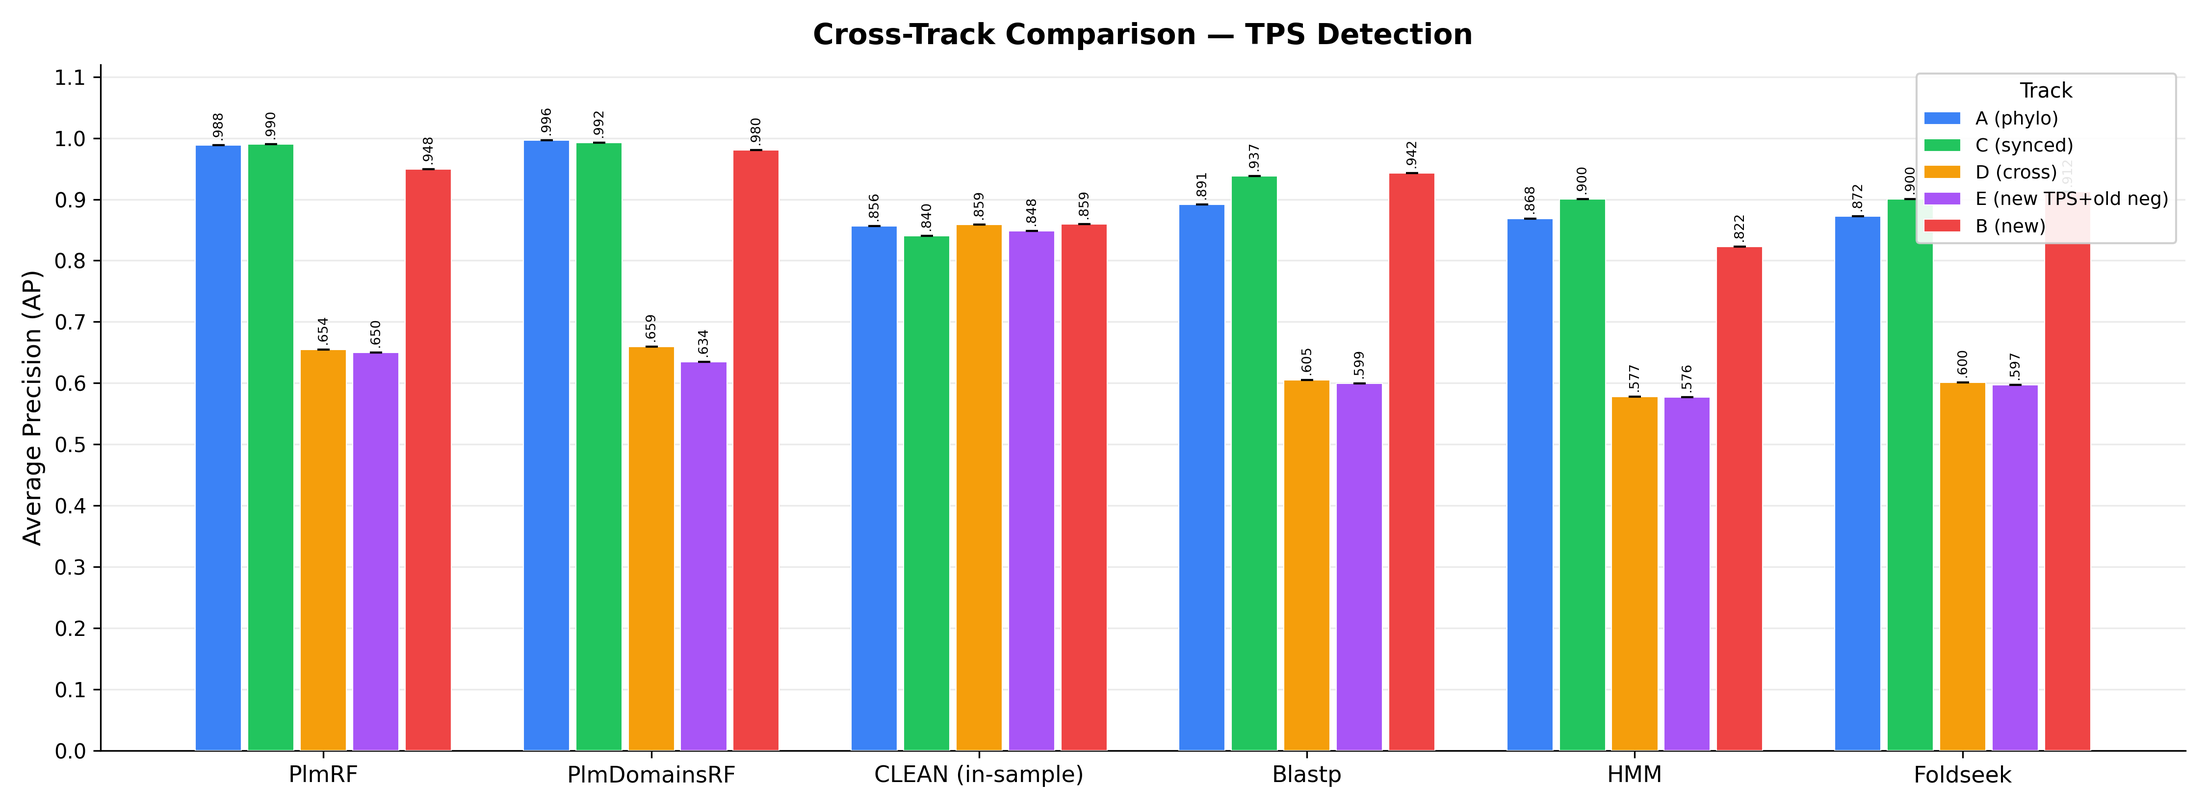
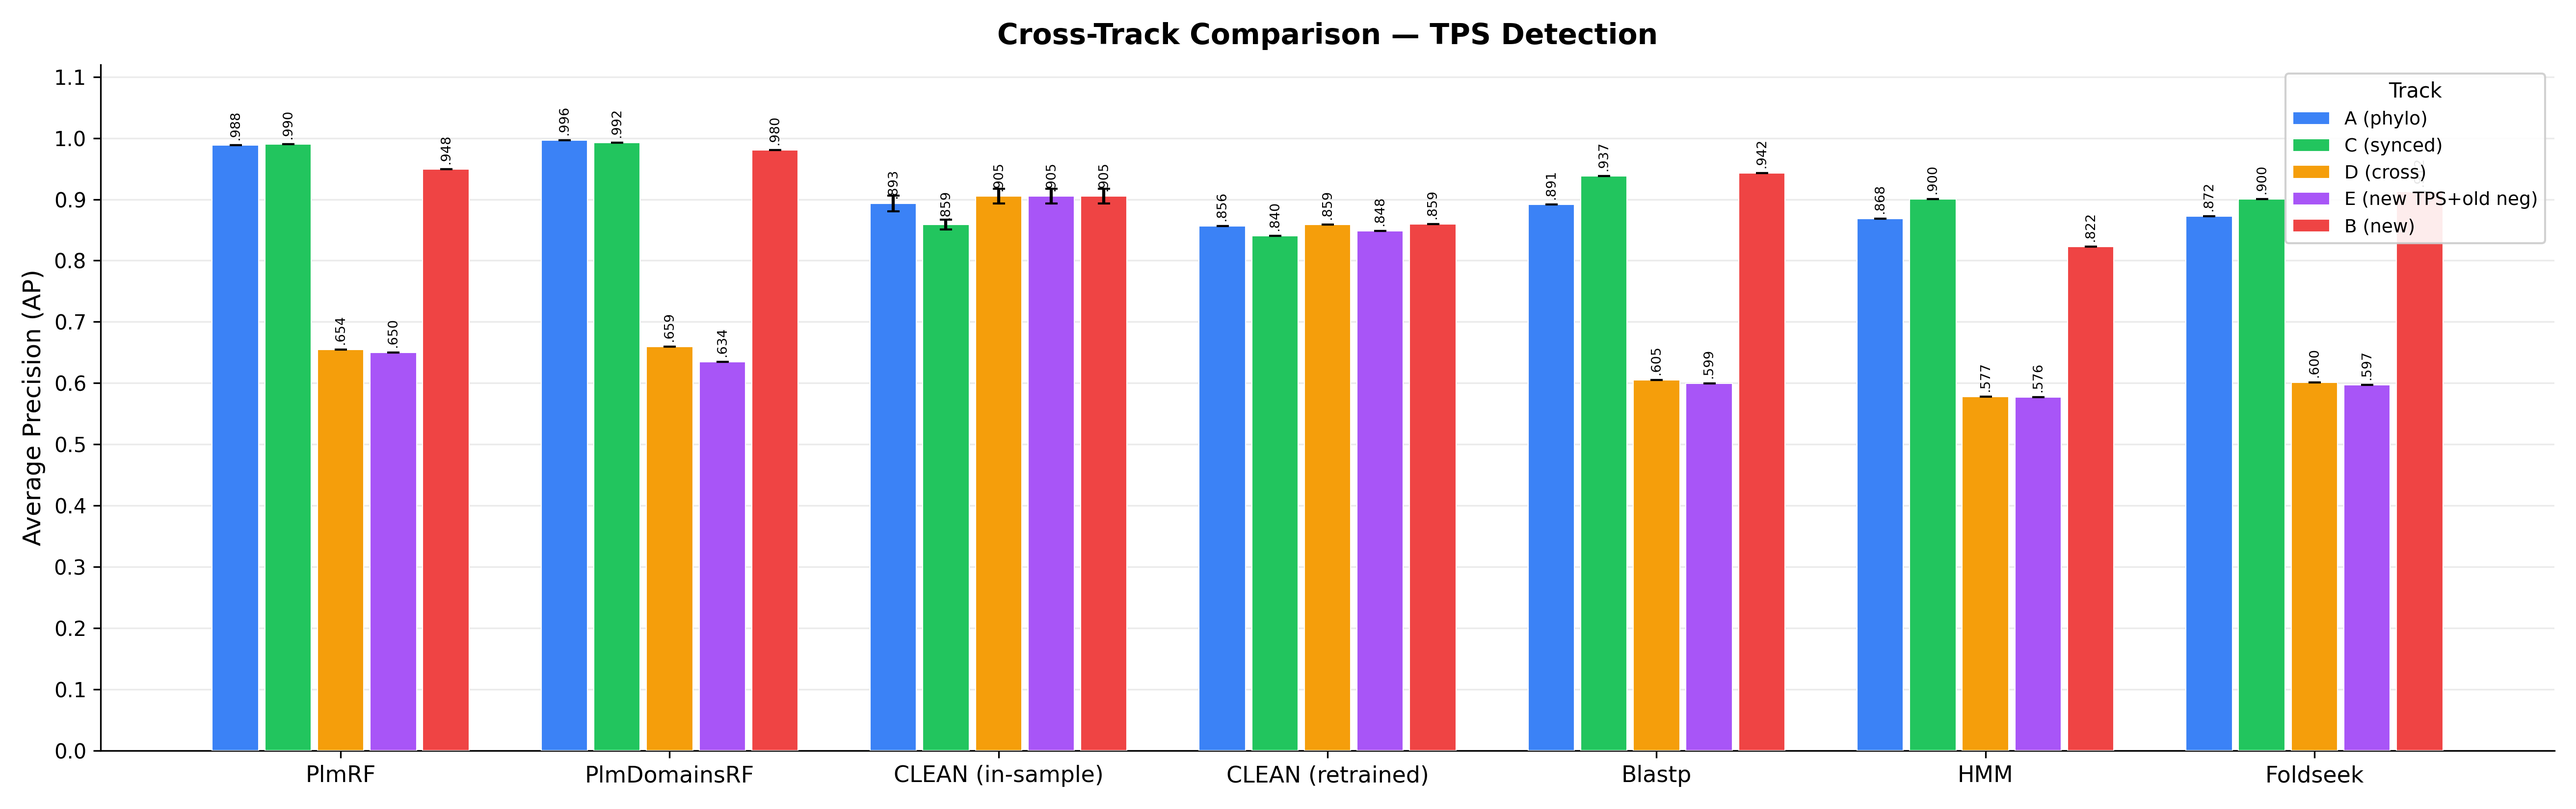
fix: prevent substrate-bearing negatives from getting isTPS=True
Proteins with Type=Unknown that happen to carry real terpenoid substrate
annotations (e.g. prenyltransferases misannotated as Unknown) were
incorrectly labelled isTPS=True by assign_is_tps_label, artificially
deflating TPS detection AP by ~40% on tracks B/D/E.

The fix adds _remap_substrates_by_type() which overrides the substrate
column to "Unknown" for any protein with Type=Unknown *before* the
groupby+assign_is_tps_label step, mirroring the existing precursor-type
remap. Both call sites (data_df and eval_data_df) now use the shared
helper.

Also includes:
- patch_istps_labels.py: one-off script that corrected existing fold
  result pickles (95 files across tracks B/D/E)
- Regression tests for the remap and end-to-end isTPS assignment
- Regenerated all figures referenced by local_validation_protocol.md

Made-with: Cursor

diff --git a/scripts/patch_istps_labels.py b/scripts/patch_istps_labels.py
@@ -1,0 +1,208 @@
+#!/usr/bin/env python3
+"""Patch fold_results pickles: fix isTPS labels for substrate-bearing negatives.
+
+Substrate-bearing negatives (Type=Unknown proteins with real terpenoid
+substrates) were incorrectly labelled isTPS=True.  This script corrects
+the test_df label sets inside every fold-result pickle without
+retraining or re-predicting.
+
+Usage::
+
+    python scripts/patch_istps_labels.py          # dry-run (default)
+    python scripts/patch_istps_labels.py --apply   # apply changes in-place
+"""
+
+from __future__ import annotations
+
+import argparse
+import logging
+import pickle
+import shutil
+from collections import defaultdict
+from pathlib import Path
+
+import pandas as pd
+
+logging.basicConfig(level=logging.INFO, format="%(levelname)s: %(message)s")
+logger = logging.getLogger(__name__)
+
+OUTPUT_ROOT = Path("outputs")
+
+_NON_TPS_LABELS = frozenset({"Unknown", "precursor substr"})
+
+_TRACK_TO_MODELS: dict[str, dict[str, str]] = {
+    "A (phylo)": {
+        "Blastp": "with_minor_reactions_phylo_folds",
+        "CLEANEcDetection": "with_minor_reactions_phylo_folds",
+        "Foldseek": "with_minor_reactions_phylo_folds",
+        "HMM": "with_minor_reactions_phylo_folds",
+        "PlmRandomForest": "tps_esm-1v-subseq_with_minor_reactions_phylo_folds",
+        "PlmDomainsRandomForest": "tps_esm-1v-subseq_with_minor_reactions_global_tuning_domains_subset_phylo_folds",
+    },
+    "C (synced)": {
+        "Blastp": "synced_folds",
+        "CLEANEcDetection": "synced_folds",
+        "Foldseek": "synced_folds",
+        "HMM": "synced_folds",
+        "PlmRandomForest": "tps_esm-1v-subseq_synced_folds",
+        "PlmDomainsRandomForest": "tps_esm-1v-subseq_synced_folds",
+    },
+    "B (new)": {
+        "Blastp": "new_dataset",
+        "CLEANEcDetection": "new_dataset",
+        "CLEAN": "new_dataset",
+        "Foldseek": "new_dataset",
+        "HMM": "new_dataset",
+        "PlmRandomForest": "tps_esm-1v-subseq_new_dataset",
+        "PlmDomainsRandomForest": "tps_esm-1v-subseq_new_dataset",
+    },
+    "D (cross)": {
+        "Blastp": "cross_synced_to_new",
+        "CLEANEcDetection": "cross_synced_to_new",
+        "Foldseek": "cross_synced_to_new",
+        "HMM": "cross_synced_to_new",
+        "PlmRandomForest": "tps_esm-1v-subseq_cross_synced_to_new",
+        "PlmDomainsRandomForest": "tps_esm-1v-subseq_cross_synced_to_new",
+    },
+    "E (new TPS+old neg)": {
+        "Blastp": "cross_new_tps_old_neg",
+        "CLEANEcDetection": "cross_new_tps_old_neg",
+        "Foldseek": "cross_new_tps_old_neg",
+        "HMM": "cross_new_tps_old_neg",
+        "PlmRandomForest": "tps_esm-1v-subseq_cross_new_tps_old_neg",
+        "PlmDomainsRandomForest": "tps_esm-1v-subseq_cross_new_tps_old_neg",
+    },
+}
+
+_TRACK_TO_EVAL_CSV: dict[str, str] = {
+    "A (phylo)": "data/TPS-Nov19_2023_verified_all_reactions_with_neg_with_folds.csv",
+    "C (synced)": "data/TPS-Nov19_2023_with_synced_folds.csv",
+    "B (new)": "data/EnzymeExplorer_Dataset.csv",
+    "D (cross)": "data/EnzymeExplorer_Dataset.csv",
+    "E (new TPS+old neg)": "data/EnzymeExplorer_Dataset.csv",
+}
+
+_TRACK_TO_TYPE_COL: dict[str, str] = {
+    "A (phylo)": "Type (mono, sesq, di, \u2026)",
+    "C (synced)": "Type (mono, sesq, di, \u2026)",
+    "B (new)": "Type",
+    "D (cross)": "Type",
+    "E (new TPS+old neg)": "Type",
+}
+
+N_FOLDS = 5
+TARGET_COL = "SMILES_substrate_canonical_no_stereo"
+
+
+def _load_fold_pkl_path(model_type: str, version: str, fold_i: int) -> Path | None:
+    base = OUTPUT_ROOT / model_type / version
+    candidate = base / "all_folds" / "all_classes"
+    if candidate.exists():
+        ts_dirs = sorted(candidate.iterdir(), reverse=True)
+        for ts_dir in ts_dirs:
+            if (ts_dir / "fold_0_results.pkl").exists():
+                base = ts_dir
+                break
+    pkl = base / f"fold_{fold_i}_results.pkl"
+    return pkl if pkl.exists() else None
+
+
+def _get_unknown_ids(csv_path: str, type_col: str) -> frozenset[str]:
+    """Return protein IDs with Type=Unknown from a dataset CSV."""
+    df = pd.read_csv(csv_path)
+    if type_col not in df.columns:
+        return frozenset()
+    id_col = "ID" if "ID" in df.columns else "Uniprot ID"
+    return frozenset(df.loc[df[type_col] == "Unknown", id_col].unique())
+
+
+def _fix_labels(label_set: set[str]) -> set[str]:
+    """Replace the label set for a substrate-bearing negative with {"Unknown"}."""
+    return {"Unknown"}
+
+
+def patch_all(*, apply: bool = False) -> dict[str, int]:
+    stats: dict[str, int] = defaultdict(int)
+
+    unknown_ids_cache: dict[str, frozenset[str]] = {}
+
+    for track_label, models in _TRACK_TO_MODELS.items():
+        csv_path = _TRACK_TO_EVAL_CSV.get(track_label, "")
+        type_col = _TRACK_TO_TYPE_COL.get(track_label, "Type")
+        if not csv_path or not Path(csv_path).exists():
+            logger.warning("Eval CSV not found for track %s: %s", track_label, csv_path)
+            continue
+
+        cache_key = f"{csv_path}|{type_col}"
+        if cache_key not in unknown_ids_cache:
+            unknown_ids_cache[cache_key] = _get_unknown_ids(csv_path, type_col)
+        unknown_ids = unknown_ids_cache[cache_key]
+
+        if not unknown_ids:
+            logger.info("Track %s: no Unknown-type proteins found, skipping", track_label)
+            continue
+
+        for model_type, version in models.items():
+            for fold_i in range(N_FOLDS):
+                pkl_path = _load_fold_pkl_path(model_type, version, fold_i)
+                if pkl_path is None:
+                    continue
+
+                with open(pkl_path, "rb") as f:
+                    val_proba, class_names, test_df = pickle.load(f)
+
+                id_col = "ID" if "ID" in test_df.columns else "Uniprot ID"
+                n_fixed = 0
+                for idx in test_df.index:
+                    pid = test_df.at[idx, id_col]
+                    if pid in unknown_ids:
+                        old_labels = test_df.at[idx, TARGET_COL]
+                        if isinstance(old_labels, set) and "isTPS" in old_labels:
+                            test_df.at[idx, TARGET_COL] = _fix_labels(old_labels)
+                            n_fixed += 1
+
+                if n_fixed > 0:
+                    key = f"{track_label}/{model_type}/{version}/fold_{fold_i}"
+                    stats[key] = n_fixed
+                    logger.info(
+                        "%s fold %d: %d substrate-bearing negatives fixed%s",
+                        f"{model_type}/{version}",
+                        fold_i,
+                        n_fixed,
+                        "" if apply else " (dry-run)",
+                    )
+                    if apply:
+                        backup = pkl_path.with_suffix(".pkl.bak")
+                        if not backup.exists():
+                            shutil.copy2(pkl_path, backup)
+                        with open(pkl_path, "wb") as f:
+                            pickle.dump((val_proba, class_names, test_df), f)
+
+    return dict(stats)
+
+
+def main() -> None:
+    parser = argparse.ArgumentParser(description=__doc__)
+    parser.add_argument(
+        "--apply",
+        action="store_true",
+        help="Apply changes in-place (default: dry-run)",
+    )
+    args = parser.parse_args()
+
+    stats = patch_all(apply=args.apply)
+
+    total = sum(stats.values())
+    if total == 0:
+        logger.info("No substrate-bearing negatives with isTPS found in any pickle.")
+    else:
+        logger.info(
+            "Total fixes: %d across %d pickle files%s",
+            total,
+            len(stats),
+            " (APPLIED)" if args.apply else " (dry-run, use --apply to write)",
+        )
+
+
+if __name__ == "__main__":
+    main()

diff --git a/tests/test_fold_compat.py b/tests/test_fold_compat.py
@@ -222,6 +222,104 @@ class TestBuildSyncedDataset:
             assert "P_OLD" in result["Uniprot ID"].values
 
 
+class TestRemapSubstratesByType:
+    """_remap_substrates_by_type must override substrates for non-TPS types."""
+
+    def test_precursor_types_remapped(self) -> None:
+        from enzymeexplorer.src.experiments_orchestration.experiment_runner import (
+            _remap_substrates_by_type,
+        )
+
+        df = pd.DataFrame(
+            {
+                "Type": ["mono", "fpps", "gpps", "sesq"],
+                "SMILES_substrate_canonical_no_stereo": [
+                    "GPP",
+                    "FPP",
+                    "GPP",
+                    "FPP",
+                ],
+            }
+        )
+        _remap_substrates_by_type(df, "Type")
+        assert df.loc[0, "SMILES_substrate_canonical_no_stereo"] == "GPP"
+        assert df.loc[1, "SMILES_substrate_canonical_no_stereo"] == "precursor substr"
+        assert df.loc[2, "SMILES_substrate_canonical_no_stereo"] == "precursor substr"
+        assert df.loc[3, "SMILES_substrate_canonical_no_stereo"] == "FPP"
+
+    def test_unknown_type_substrates_overridden(self) -> None:
+        from enzymeexplorer.src.experiments_orchestration.experiment_runner import (
+            _remap_substrates_by_type,
+        )
+
+        df = pd.DataFrame(
+            {
+                "Type": ["mono", "Unknown", "Unknown", "sesq"],
+                "SMILES_substrate_canonical_no_stereo": [
+                    "GPP",
+                    "FPP",
+                    "Unknown",
+                    "GGPP",
+                ],
+            }
+        )
+        _remap_substrates_by_type(df, "Type")
+        assert df.loc[0, "SMILES_substrate_canonical_no_stereo"] == "GPP"
+        assert df.loc[1, "SMILES_substrate_canonical_no_stereo"] == "Unknown"
+        assert df.loc[2, "SMILES_substrate_canonical_no_stereo"] == "Unknown"
+        assert df.loc[3, "SMILES_substrate_canonical_no_stereo"] == "GGPP"
+
+    def test_substrate_bearing_negative_no_istps(self) -> None:
+        """End-to-end: Unknown-type protein with real substrate must NOT get isTPS."""
+        from enzymeexplorer.src.experiments_orchestration.experiment_runner import (
+            _remap_substrates_by_type,
+            assign_is_tps_label,
+        )
+
+        df = pd.DataFrame(
+            {
+                "id": ["TPS1", "TPS1", "NEG1", "NEG1"],
+                "Type": ["mono", "mono", "Unknown", "Unknown"],
+                "SMILES_substrate_canonical_no_stereo": [
+                    "GPP",
+                    "FPP",
+                    "GPP",
+                    "Unknown",
+                ],
+            }
+        )
+        _remap_substrates_by_type(df, "Type")
+        grouped = (
+            df.groupby("id")["SMILES_substrate_canonical_no_stereo"]
+            .agg(set)
+            .reset_index()
+        )
+        grouped["SMILES_substrate_canonical_no_stereo"] = grouped[
+            "SMILES_substrate_canonical_no_stereo"
+        ].map(assign_is_tps_label)
+
+        tps_labels = grouped.loc[
+            grouped["id"] == "TPS1", "SMILES_substrate_canonical_no_stereo"
+        ].iloc[0]
+        assert "isTPS" in tps_labels
+
+        neg_labels = grouped.loc[
+            grouped["id"] == "NEG1", "SMILES_substrate_canonical_no_stereo"
+        ].iloc[0]
+        assert "isTPS" not in neg_labels
+
+    def test_missing_type_col_is_noop(self) -> None:
+        from enzymeexplorer.src.experiments_orchestration.experiment_runner import (
+            _remap_substrates_by_type,
+        )
+
+        df = pd.DataFrame(
+            {"SMILES_substrate_canonical_no_stereo": ["GPP", "FPP"]}
+        )
+        _remap_substrates_by_type(df, "NonExistentCol")
+        assert list(df["SMILES_substrate_canonical_no_stereo"]) == ["GPP", "FPP"]
+
+
 class TestLoadEvalDataset:
     """_load_eval_dataset should rename eval columns to match training schema."""
 

diff --git a/enzymeexplorer/src/experiments_orchestration/experiment_runner.py b/enzymeexplorer/src/experiments_orchestration/experiment_runner.py
@@ -30,6 +30,25 @@ _PRECURSOR_TYPES = frozenset({"ggpps", "fpps", "gpps", "gfpps", "hsqs", "pt"})
 
 _DEFAULT_TYPE_COL = "Type (mono, sesq, di, …)"
 
+_SUBSTRATE_COL = "SMILES_substrate_canonical_no_stereo"
+
+
+def _remap_substrates_by_type(df: pd.DataFrame, type_col: str) -> None:
+    """Override substrate labels for non-TPS protein types.
+
+    * Precursor types (``_PRECURSOR_TYPES``) → ``"precursor substr"``
+    * Unknown / negative types → ``"Unknown"``
+
+    This prevents substrate-bearing negatives from being labelled
+    ``isTPS=True`` by :func:`assign_is_tps_label`.
+    """
+    if type_col not in df.columns:
+        return
+    df.loc[
+        df[type_col].isin(_PRECURSOR_TYPES), _SUBSTRATE_COL
+    ] = "precursor substr"
+    df.loc[df[type_col] == "Unknown", _SUBSTRATE_COL] = "Unknown"
+
 
 def _normalize_fold_column(df: pd.DataFrame, col: str) -> None:
     """Ensure fold-column values use ``fold_N`` format.
@@ -82,11 +101,7 @@ def _load_eval_dataset(config: BaseConfig) -> pd.DataFrame:
         eval_df.rename(columns=renames, inplace=True)
     _normalize_fold_column(eval_df, config.split_col_name)
     type_col = getattr(config, "type_col_name", _DEFAULT_TYPE_COL)
-    if type_col in eval_df.columns:
-        eval_df.loc[
-            eval_df[type_col].isin(_PRECURSOR_TYPES),
-            "SMILES_substrate_canonical_no_stereo",
-        ] = "precursor substr"
+    _remap_substrates_by_type(eval_df, type_col)
     logger.info(
         "Cross-dataset eval: test folds from %s (%d rows)",
         config.eval_csv_path,
@@ -211,11 +226,7 @@ def run_experiment(experiment_info: ExperimentInfo, load_hyperparameters: bool =
     _normalize_fold_column(data_df, config.split_col_name)
     if not is_halo:
         type_col = getattr(config, "type_col_name", _DEFAULT_TYPE_COL)
-        if type_col in data_df.columns:
-            data_df.loc[
-                data_df[type_col].isin(_PRECURSOR_TYPES),
-                "SMILES_substrate_canonical_no_stereo",
-            ] = "precursor substr"
+        _remap_substrates_by_type(data_df, type_col)
 
     cross_dataset_eval = bool(getattr(config, "eval_csv_path", ""))
     eval_data_df = None
